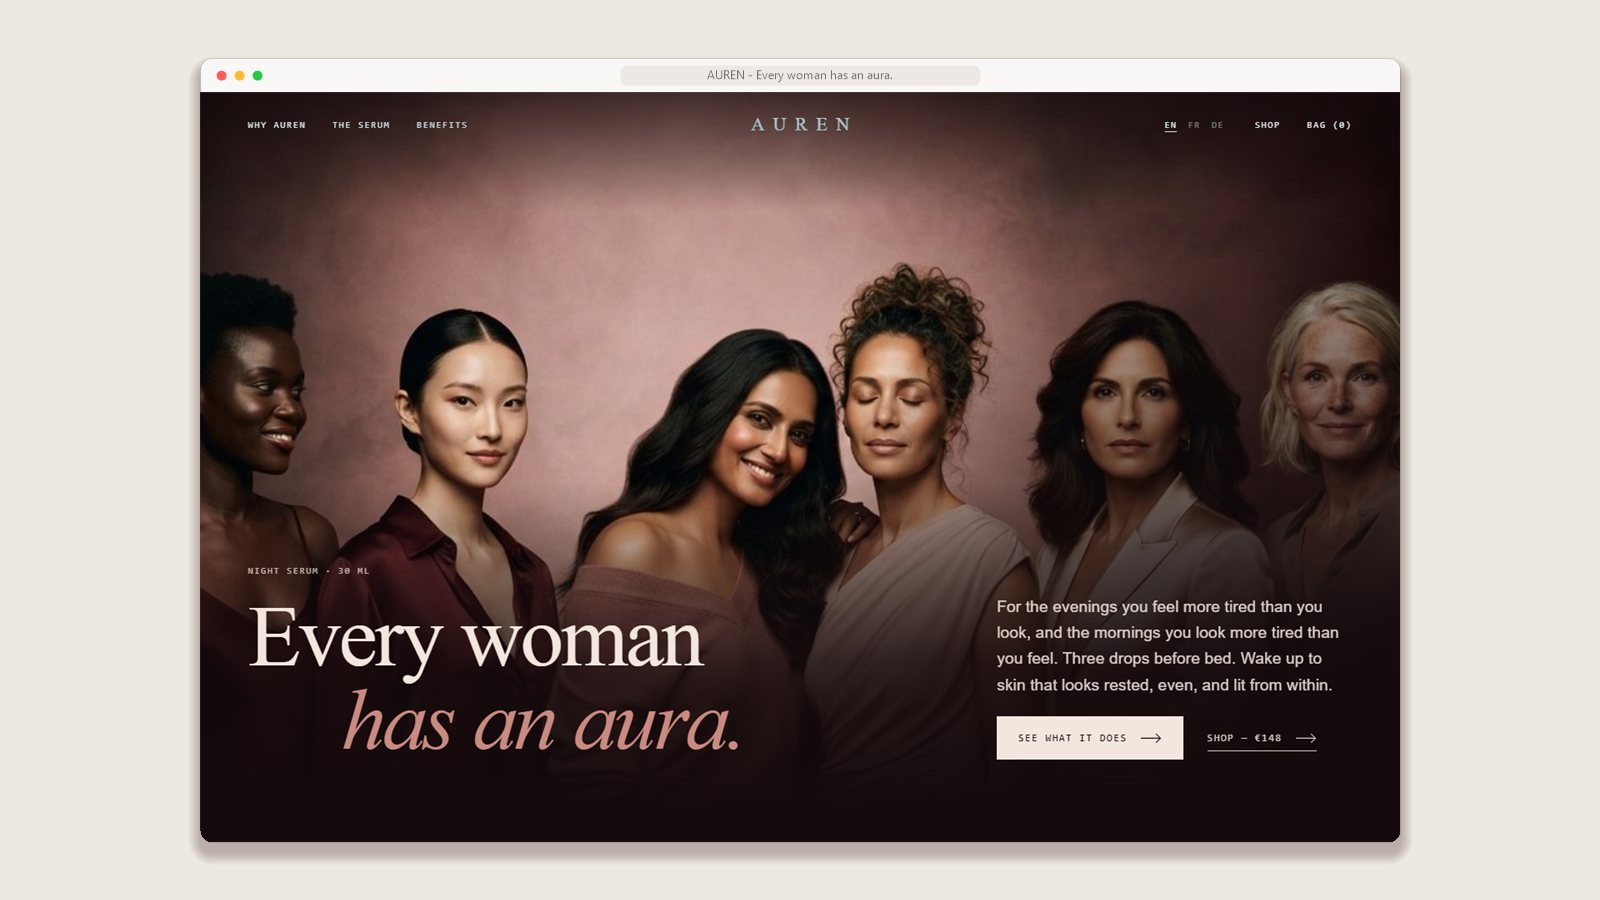
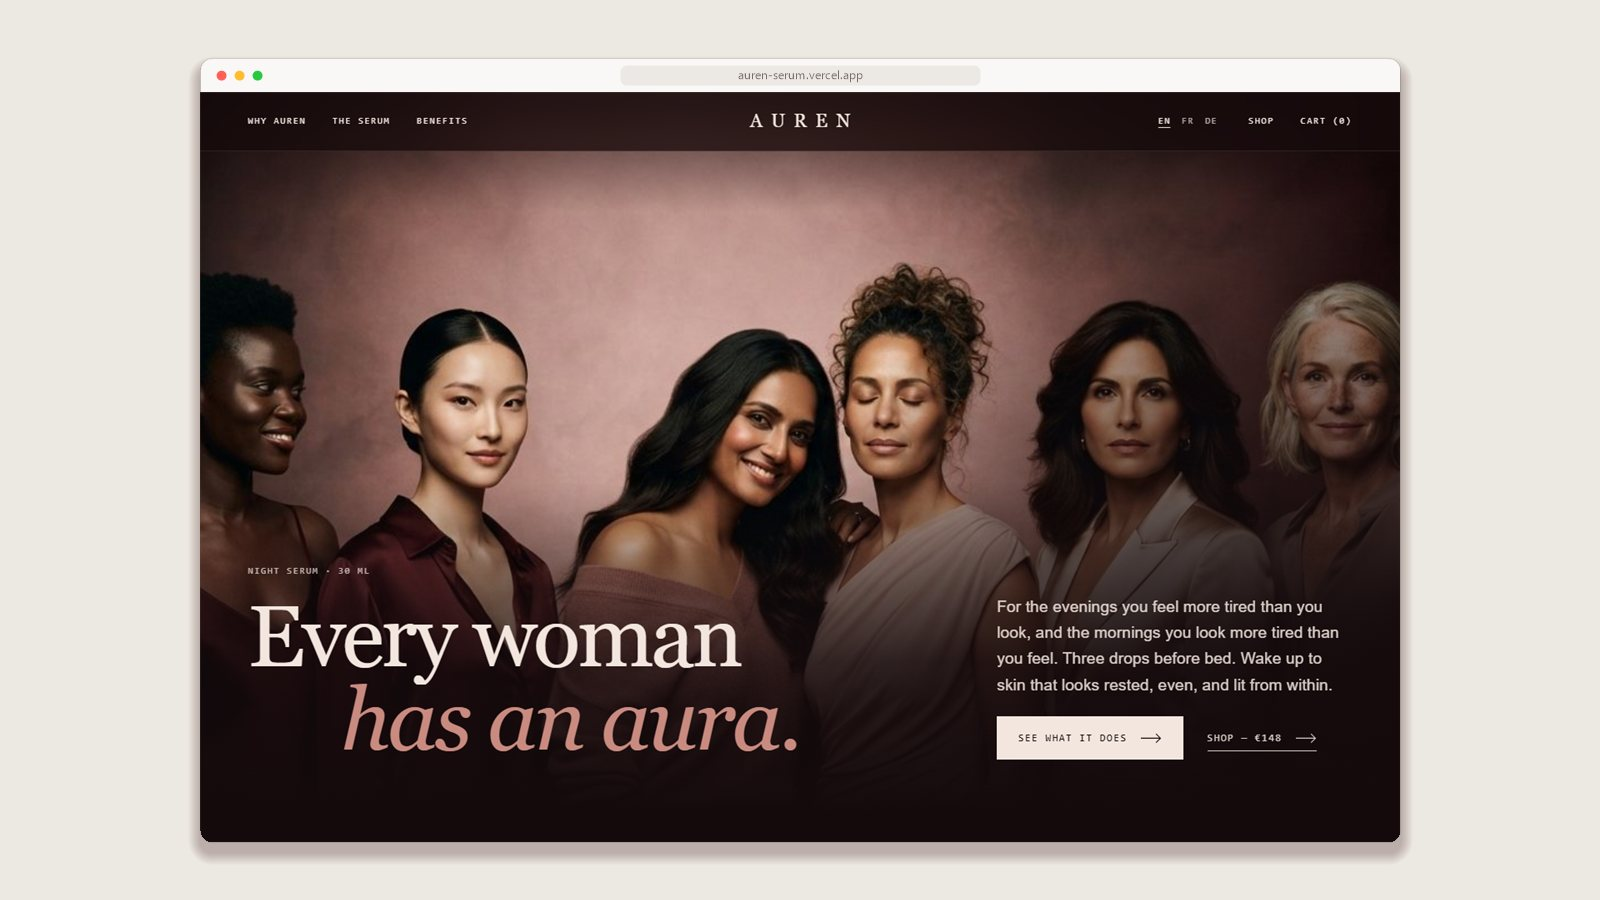
README: new AUREN preview, live link and Lighthouse scores

diff --git a/landing-pages/auren/README.md b/landing-pages/auren/README.md
@@ -6,7 +6,20 @@ Built with **React 19, TypeScript, Vite and Three.js**.
 
 ## Preview
 
+**Live: [auren-serum.vercel.app](https://auren-serum.vercel.app)**
+
+[![AUREN landing page](../../previews/auren.jpg)](https://auren-serum.vercel.app)
+
 AUREN is a fictional skincare brand built around a simple idea: less information, stronger visuals and an immersive product experience.
+
+## Lighthouse
+
+Measured with PageSpeed Insights on the live site.
+
+| | Performance | Accessibility | Best practices | SEO |
+|---|:---:|:---:|:---:|:---:|
+| Mobile | 100 | 100 | 100 | 100 |
+| Desktop | 100 | 100 | 100 | 100 |
 
 ## Getting started
 
